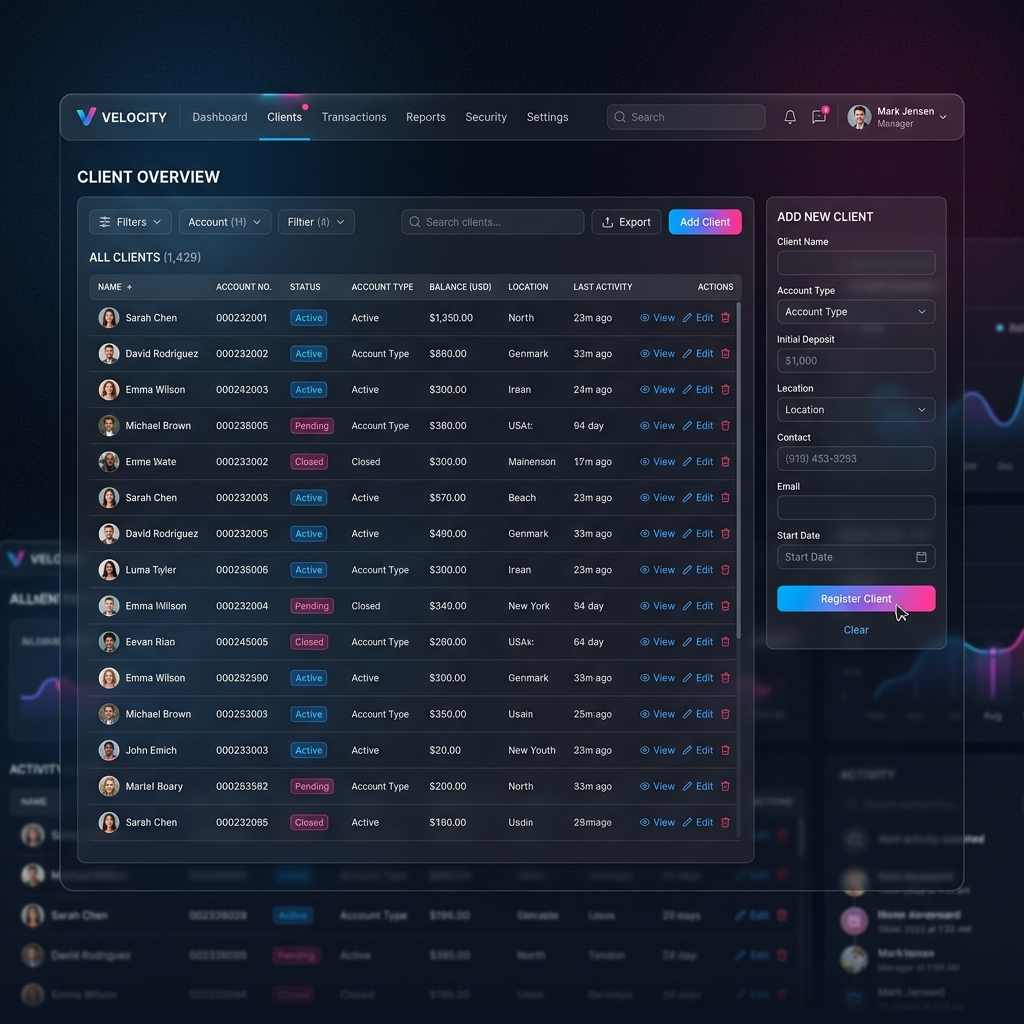
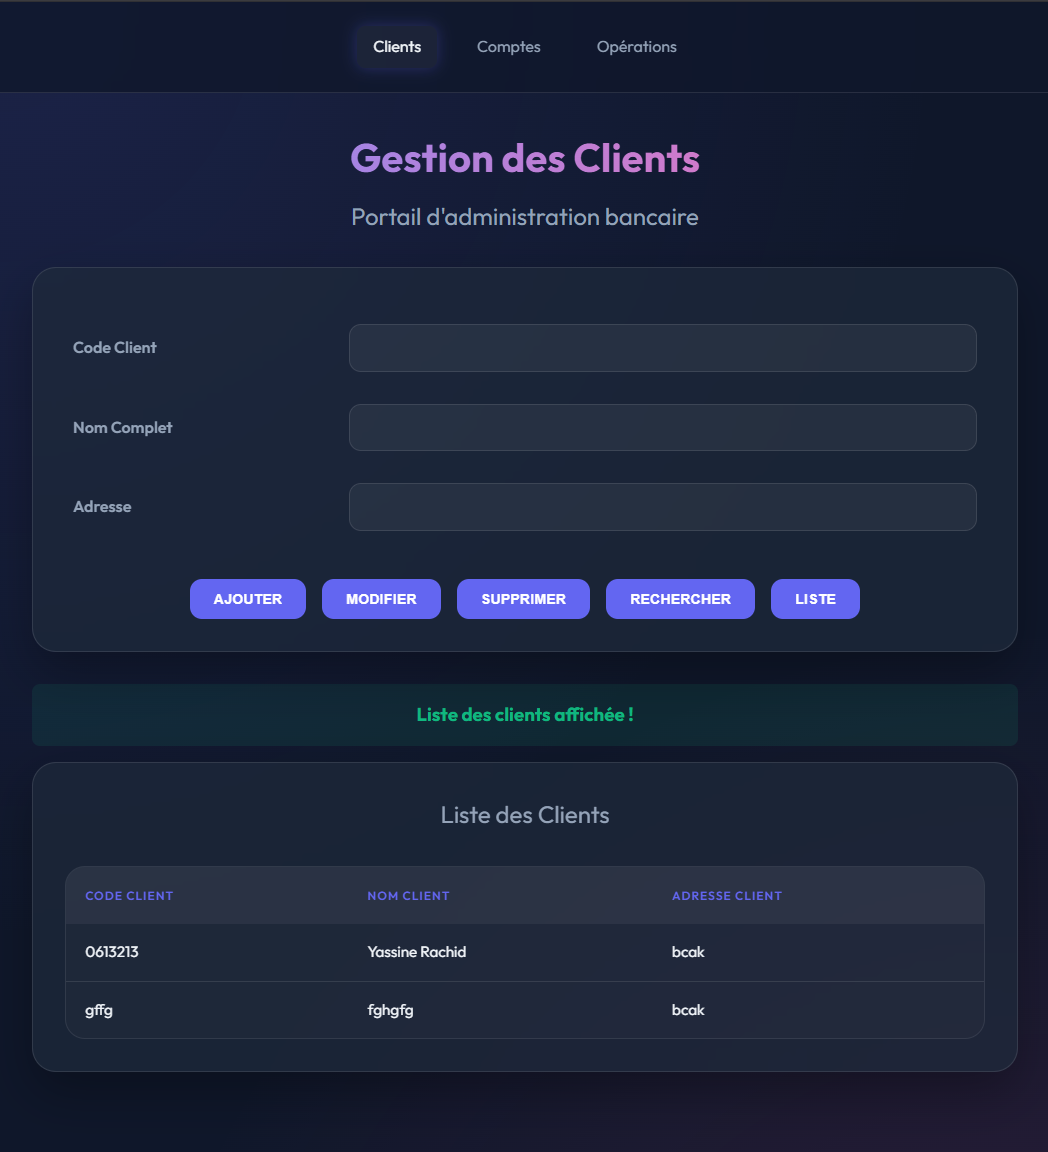
Docs: Update preview image and caption with real UI screenshot

diff --git a/README.md b/README.md
@@ -54,7 +54,7 @@ Une application web de gestion bancaire robuste et moderne, développée pour un
 ## 📸 Aperçu de l'Interface
 
 ![Interface Preview](banque_ui_preview.png)
-*Aperçu du tableau de bord moderne avec navigation fluide et design Glassmorphism.*
+*Capture d'écran réelle de l'interface d'administration : Gestion des clients avec design Glassmorphism et mode sombre.*
 
 ---
 
